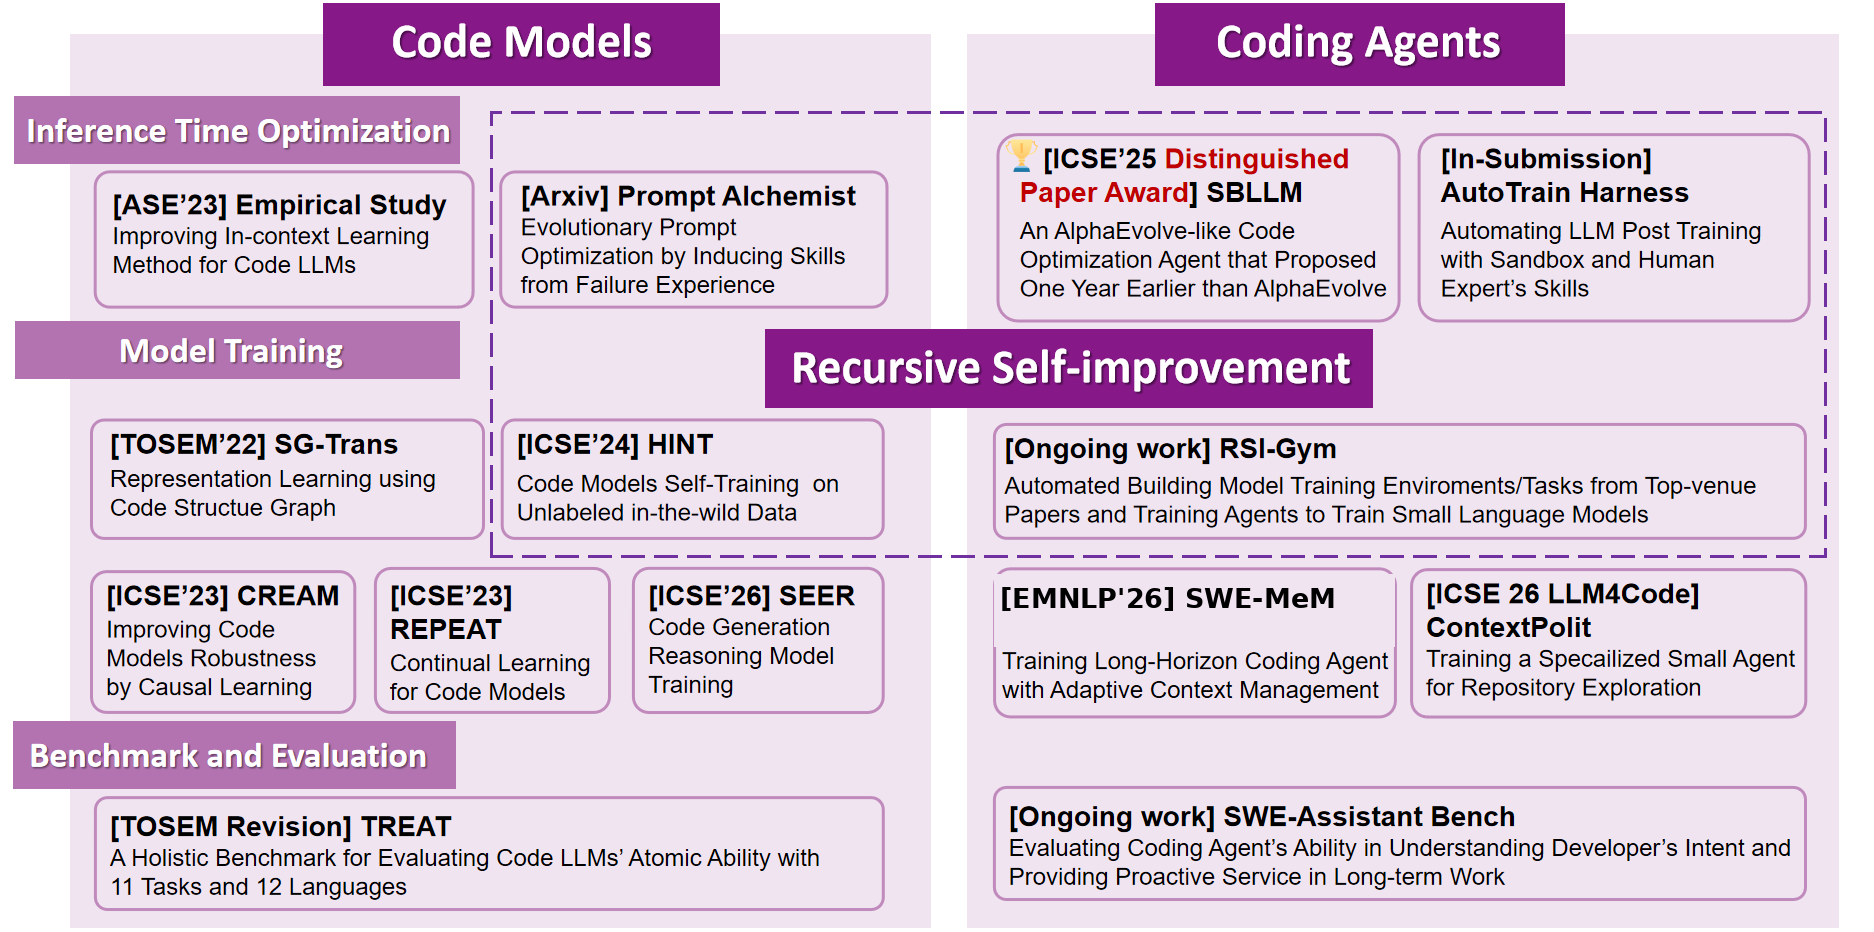
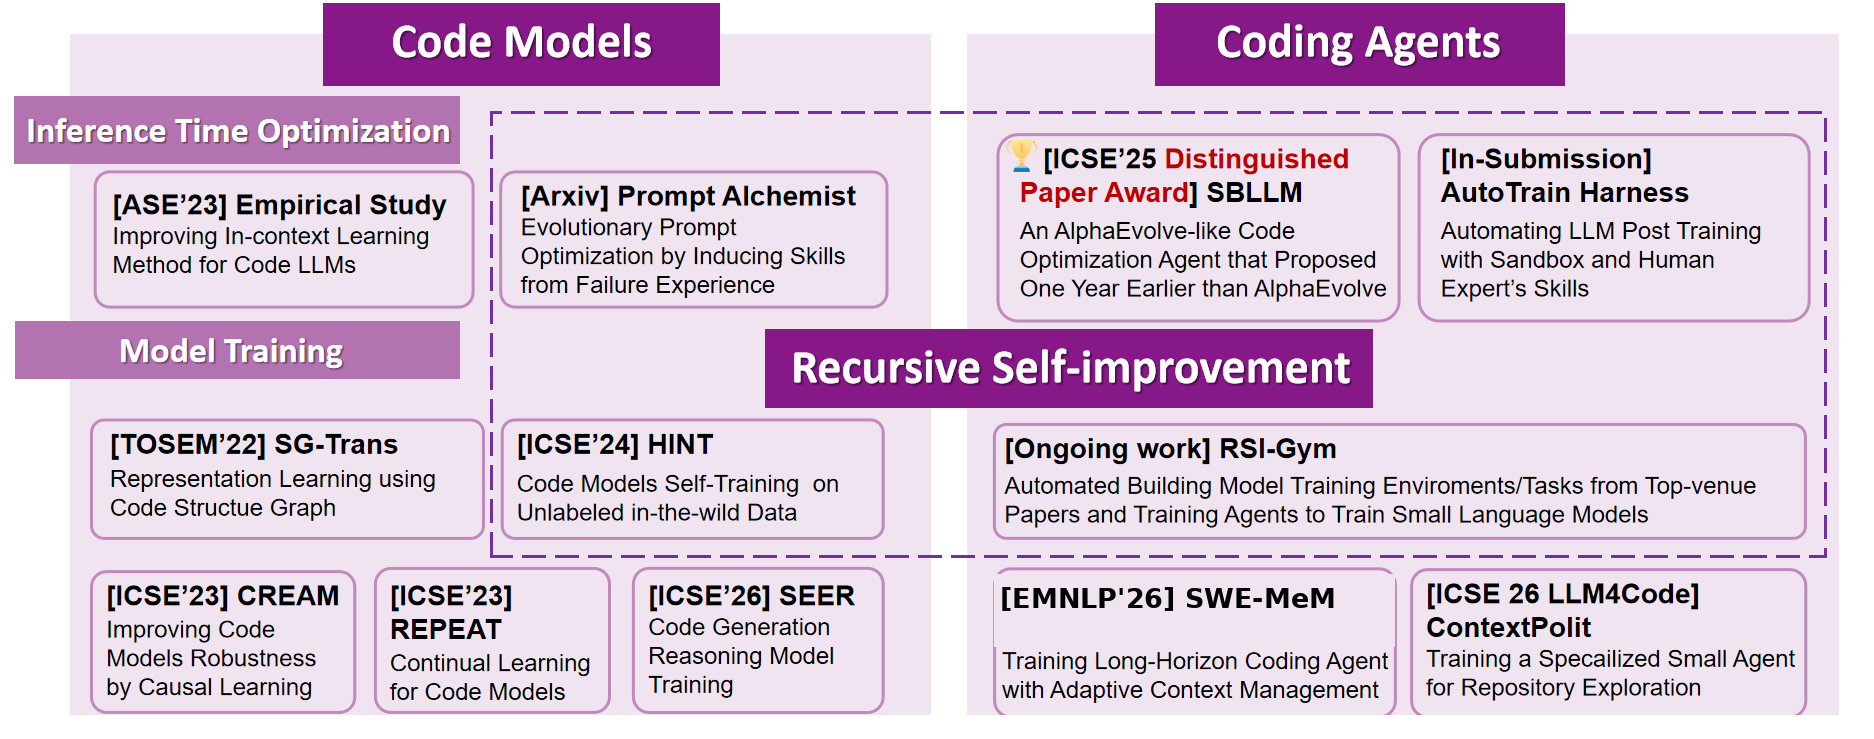
Further simplify homepage overview

diff --git a/_pages/about.md b/_pages/about.md
@@ -10,7 +10,7 @@ redirect_from:
 
 <span class="anchor" id="about-me"></span>
 
-Hello! I am a **final-year Ph.D. student** in Computer Science and Engineering at [The Chinese University of Hong Kong (CUHK)](https://www.cuhk.edu.hk/english/index.html), advised by [Prof. Michael R. Lyu](http://www.cse.cuhk.edu.hk/lyu/home). I expect to graduate in **July 2027**. Before joining CUHK, I received my Master's degree from Harbin Institute of Technology, Shenzhen, under the supervision of [Prof. Cuiyun Gao](https://cuiyungao.github.io/), and my Bachelor's degree from Harbin Institute of Technology, Weihai.
+Hello! I am a **final-year Ph.D. student** in Computer Science and Engineering at [The Chinese University of Hong Kong (CUHK)](https://www.cuhk.edu.hk/english/index.html), advised by [Prof. Michael R. Lyu](http://www.cse.cuhk.edu.hk/lyu/home).
 
 <div class="job-market-banner">
 <div class="job-market-title">📢 On the 2027 Job Market</div>
@@ -23,7 +23,7 @@ The following figure summarizes my main research directions and representative f
 
 <img src="/images/research-overview.png" alt="Overview of my research on Code Models, Coding Agents, and Recursive Self-improvement" class="research-overview">
 
-I am currently a Research Intern at **ByteDance Douyin AI4SE**, working on long-horizon coding agents, agentic reinforcement learning, and automated post-training. If you are interested in my research, collaboration, or potential opportunities, please feel free to contact me at [szgao23@cse.cuhk.edu.hk](mailto:szgao23@cse.cuhk.edu.hk).
+If you are interested in my research, collaboration, or potential opportunities, please feel free to contact me at [szgao23@cse.cuhk.edu.hk](mailto:szgao23@cse.cuhk.edu.hk).
 
 # 🔥 News
 
@@ -46,8 +46,6 @@ I am currently a Research Intern at **ByteDance Douyin AI4SE**, working on long-
 - <span class="conference-tag">LLM4Code 2026</span> [**ContextPilot: Code Context Engineering with Memory-Augmented Exploration Agents**](../files/contextpilot.pdf), **Shuzheng Gao**, Chaozheng Wang, Shuqing Li, Yun Peng, and Michael R. Lyu.
 
 - <span class="conference-tag">ICSE 2025</span> [**Search-Based LLMs for Code Optimization**](https://arxiv.org/abs/2408.12159), **Shuzheng Gao**, Cuiyun Gao, Wenchao Gu, and Michael R. Lyu. [[Code]](https://github.com/shuzhenggao/sbllm) <span class="outstanding-tag">ACM SIGSOFT Distinguished Paper Award</span>
-
-- <span class="preprint-tag">TOSEM Revision</span> [**TREAT: A Code LLMs Trustworthiness/Reliability Evaluation and Testing Framework**](https://arxiv.org/abs/2510.17163), **Shuzheng Gao**<sup>*</sup>, Eric John Li<sup>*</sup>, Man Ho Lam, Jingyu Xiao, Yuxuan Wan, Chaozheng Wang, Ng Man Tik, and Michael R. Lyu. [[Homepage]](https://code-treat.vercel.app/) [[Data]](https://huggingface.co/Code-TREAT/datasets)
 
 - <span class="conference-tag">ICSE 2024</span> [**Learning in the Wild: Towards Leveraging Unlabeled Data for Effectively Tuning Pre-trained Code Models**](https://arxiv.org/abs/2401.01060), **Shuzheng Gao**, Wenxin Mao, Cuiyun Gao, Li Li, Xing Hu, Xin Xia, and Michael R. Lyu. [[Code]](https://github.com/shuzhenggao/HINT)
 
